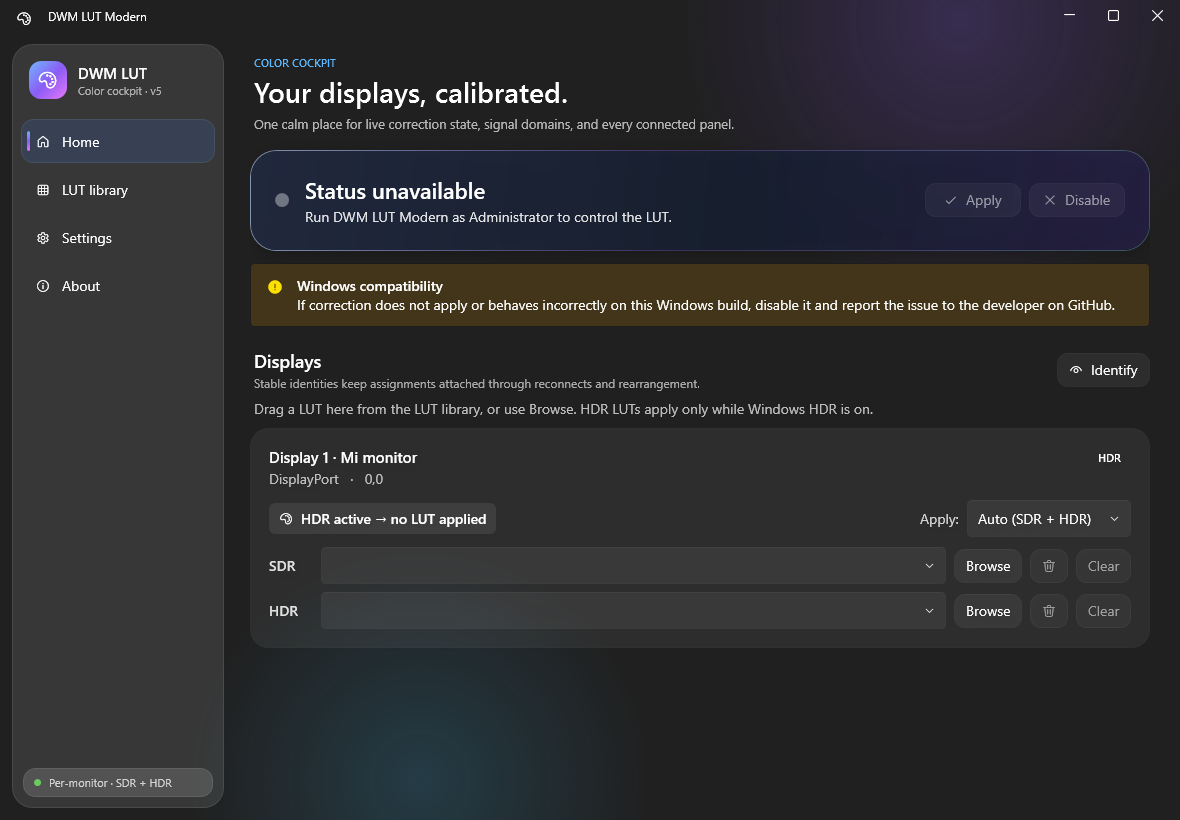
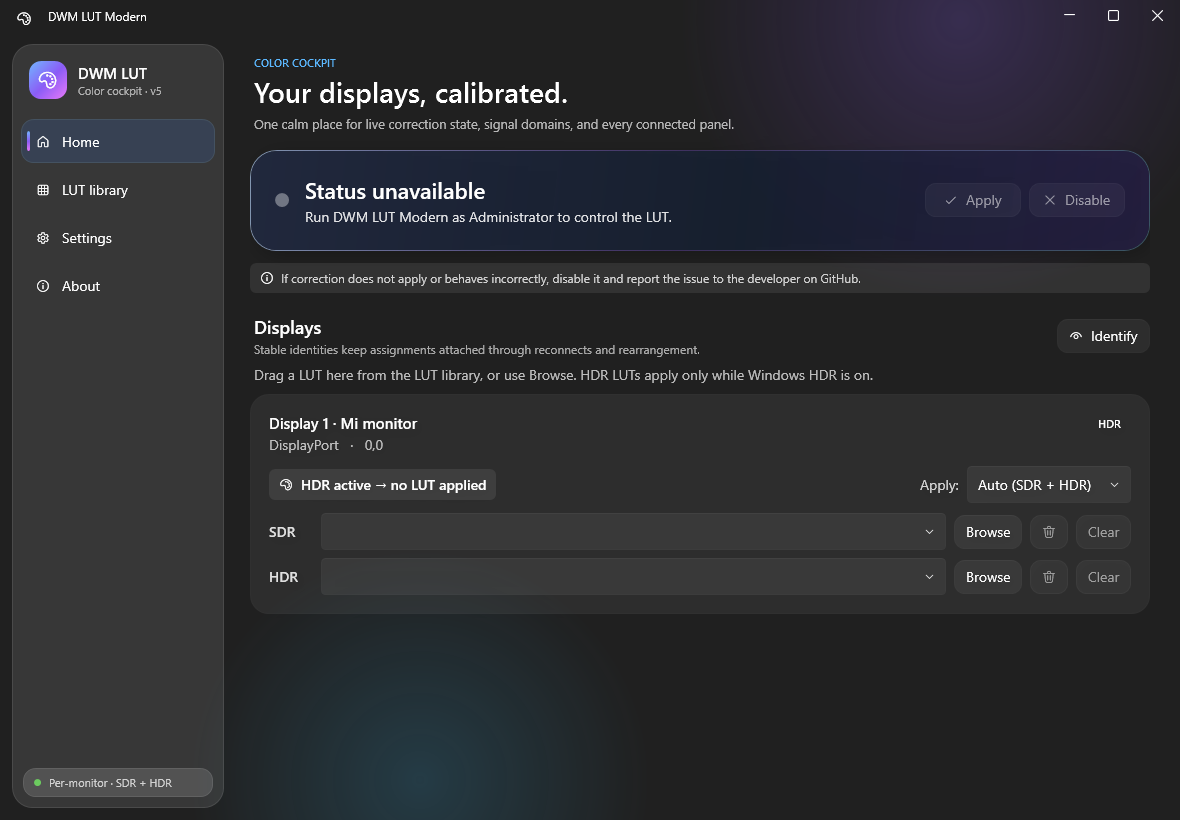
fix: make compatibility feedback neutral and truthful

diff --git a/src/DwmLutModern.App/Views/HomePage.xaml b/src/DwmLutModern.App/Views/HomePage.xaml
@@ -64,10 +64,14 @@
                 </Grid>
             </Border>
 
-            <ui:InfoBar Severity="Warning" IsClosable="False" Margin="0,12,0,0"
-                        Title="Windows compatibility"
-                        IsOpen="{Binding ShowCompatibilityNotice}"
-                        Message="{Binding CompatibilityNotice}" />
+            <Border Margin="0,12,0,0" Padding="10,7" CornerRadius="6"
+                    Background="{DynamicResource ControlFillColorSecondaryBrush}">
+                <StackPanel Orientation="Horizontal">
+                    <ui:SymbolIcon Symbol="Info24" FontSize="14" Margin="0,0,7,0" VerticalAlignment="Center" />
+                    <TextBlock FontSize="12" Opacity="0.78" TextWrapping="Wrap" VerticalAlignment="Center"
+                               Text="If correction does not apply or behaves incorrectly, disable it and report the issue to the developer on GitHub." />
+                </StackPanel>
+            </Border>
 
             <Grid Margin="0,22,0,8">
                 <StackPanel Margin="4,0,0,0">

diff --git a/src/DwmLutModern.App/ViewModels/HomeViewModel.cs b/src/DwmLutModern.App/ViewModels/HomeViewModel.cs
@@ -37,8 +37,6 @@ namespace DwmLutModern.ViewModels
         {
             var support = DwmProfileService.Detect();
 			_supportAllowsApply = support.CanApply;
-			ShowCompatibilityNotice = support.ShouldShowCommunityNotice;
-			CompatibilityNotice = DwmProfileService.CommunityNotice;
 			OnPropertyChanged(nameof(CanApply));
         }
 
@@ -67,12 +65,6 @@ namespace DwmLutModern.ViewModels
 
         [ObservableProperty]
         private bool _anyLutAssigned;
-
-        [ObservableProperty]
-        private bool _showCompatibilityNotice;
-
-        [ObservableProperty]
-        private string _compatibilityNotice = string.Empty;
 
         public bool CanApply => _supportAllowsApply && !_controller.NoDebug && !IsBusy && AnyLutAssigned;
 		public bool CanDisable => !_controller.NoDebug && !IsBusy && _controller.CanRequestDisable;

diff --git a/src/DwmLutModern.App/Services/DwmProfileService.cs b/src/DwmLutModern.App/Services/DwmProfileService.cs
@@ -29,7 +29,6 @@ namespace DwmLutModern.Services
 		public bool HasExactProfile { get; set; }
 		public DwmSupportLevel Level { get; set; } = DwmSupportLevel.Unsupported;
 		public bool CanApply => Level != DwmSupportLevel.Unsupported;
-		public bool ShouldShowCommunityNotice => !IsVerified;
     }
 
     /// <summary>
@@ -39,9 +38,6 @@ namespace DwmLutModern.Services
     /// </summary>
     public static class DwmProfileService
     {
-		public const string CommunityNotice =
-			"If correction does not apply or behaves incorrectly on this Windows build, disable it and report the issue to the developer on GitHub.";
-
         public static DwmSupport Detect()
         {
             try

diff --git a/tests/DwmLutModern.App.Tests/DwmProfileValidationTests.cs b/tests/DwmLutModern.App.Tests/DwmProfileValidationTests.cs
@@ -29,15 +29,4 @@ public sealed class DwmProfileValidationTests
 
 		Assert.False(support.CanApply);
 	}
-
-	[Fact]
-	public void Community_notice_is_shown_only_until_a_profile_is_verified()
-	{
-		var pending = new DwmSupport { IsVerified = false };
-		var verified = new DwmSupport { IsVerified = true };
-
-		Assert.True(pending.ShouldShowCommunityNotice);
-		Assert.False(verified.ShouldShowCommunityNotice);
-		Assert.Contains("report the issue", DwmProfileService.CommunityNotice);
-	}
 }

diff --git a/docs/validation-lab.md b/docs/validation-lab.md
@@ -14,8 +14,9 @@ guest only when `dwmcore.dll` identity or the hook implementation meaningfully c
 
 Use three kinds of coverage together:
 
-1. Run offline payload/profile checks for **every** compiled PDB GUID/age. These prove exact
-   selection, PE/RVA sanity, generated tables, and fail-closed mismatch behavior.
+1. Run offline payload/profile checks for every compiled PDB GUID/age whose matching Microsoft DLL
+   is locally available. These prove exact selection and PE/RVA sanity. CI validates the generated
+   profile tables but cannot contain or redistribute Microsoft's historical `dwmcore.dll` files.
 2. Run an obvious-LUT lifecycle smoke test in one VM per implementation family: Windows 10 19045,
    legacy Windows 11, 24H2/26100, 25H2/262xx, 26H1/280xx, and Canary when it is shipped.
 3. Let exact-build community reports fill additional cumulative-update and hardware cells. Record
@@ -25,6 +26,12 @@ Two Windows labels carrying the same exact DWM payload/profile do not need dupli
 qualification. A new PDB GUID/age remains a new payload candidate even when Microsoft keeps the
 same marketing version. The primary-source rationale, media options, and VM limitations are in
 [`docs/research/windows-build-family-validation.md`](research/windows-build-family-validation.md).
+
+Validate each legally obtained payload with:
+
+```powershell
+.\scripts\test-dwm-payload-profile.ps1 -DwmCorePath C:\path\to\dwmcore.dll
+```
 
 ## What each tier proves
 

diff --git a/CHANGELOG.md b/CHANGELOG.md
@@ -1,5 +1,23 @@
 # Changelog
 
+## [Unreleased]
+
+### Added
+
+- A paste-ready community compatibility report generated beside validation evidence.
+- A no-reinstall validation policy using representative Hyper-V/DWM implementation families and
+  distinct evidence labels for built, VM, physical, measured, and community-reported results.
+
+### Changed
+
+- Replaced compatibility warning clutter with one compact neutral report-an-issue notice and a
+  direct GitHub compatibility-report link on About.
+
+### Fixed
+
+- UI evidence capture now prefers `PrintWindow` and permits screen-copy fallback only after the
+  exact application HWND is confirmed foreground, preventing unrelated windows from being saved.
+
 ## [5.0.0] - 2026-07-10
 
 ### Added
